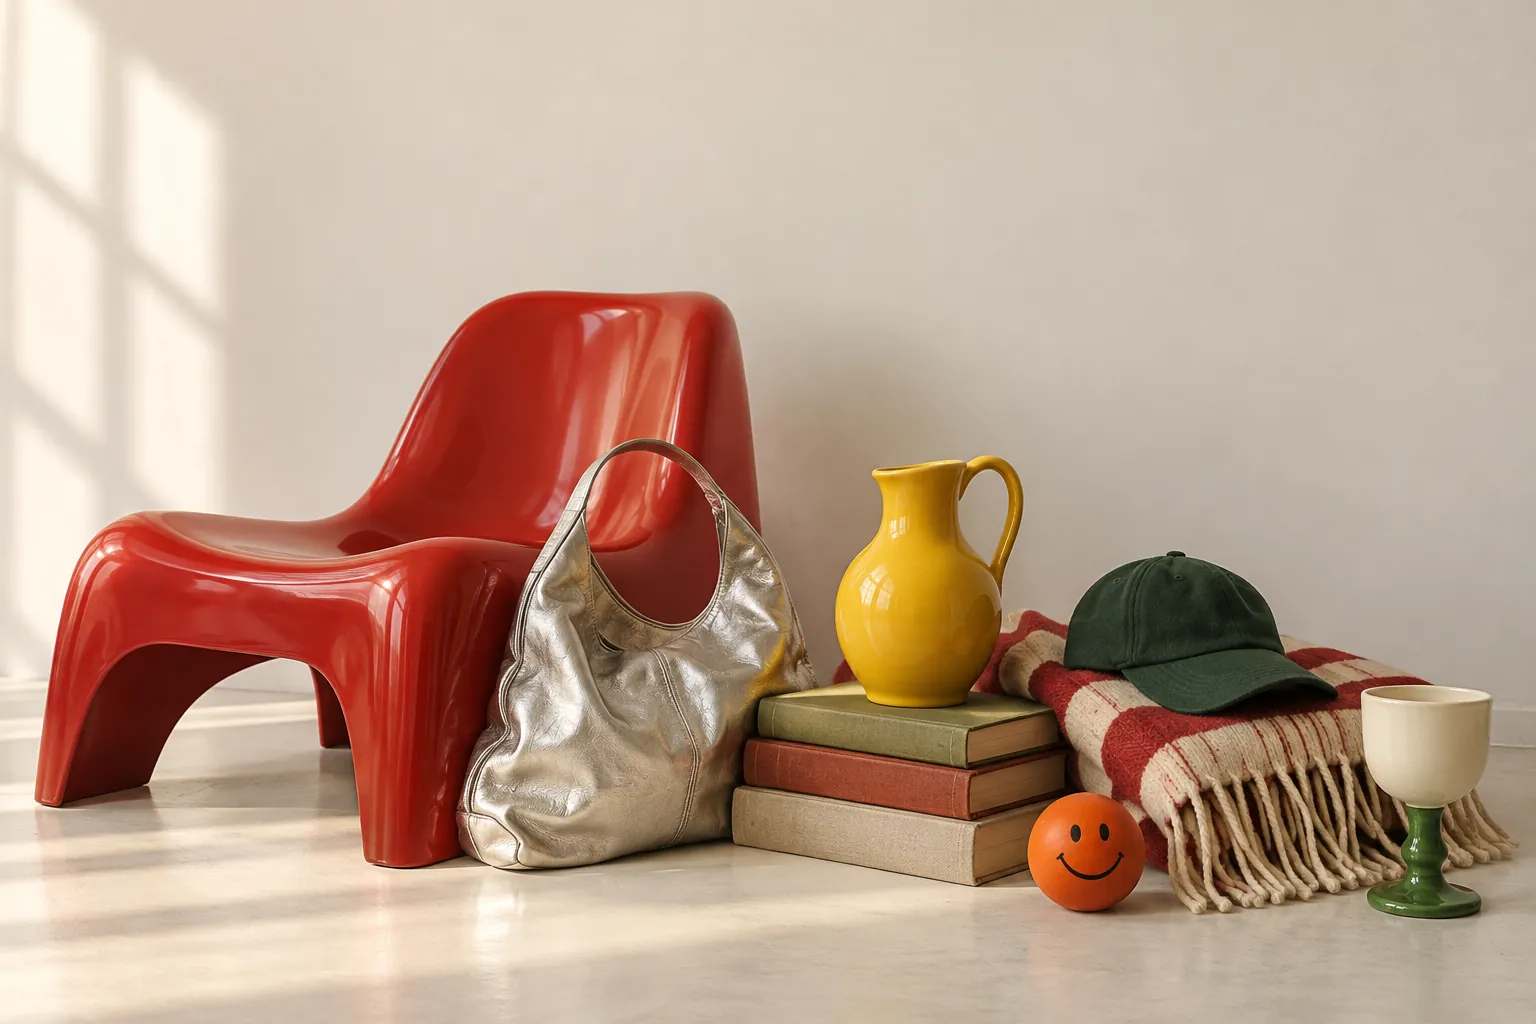
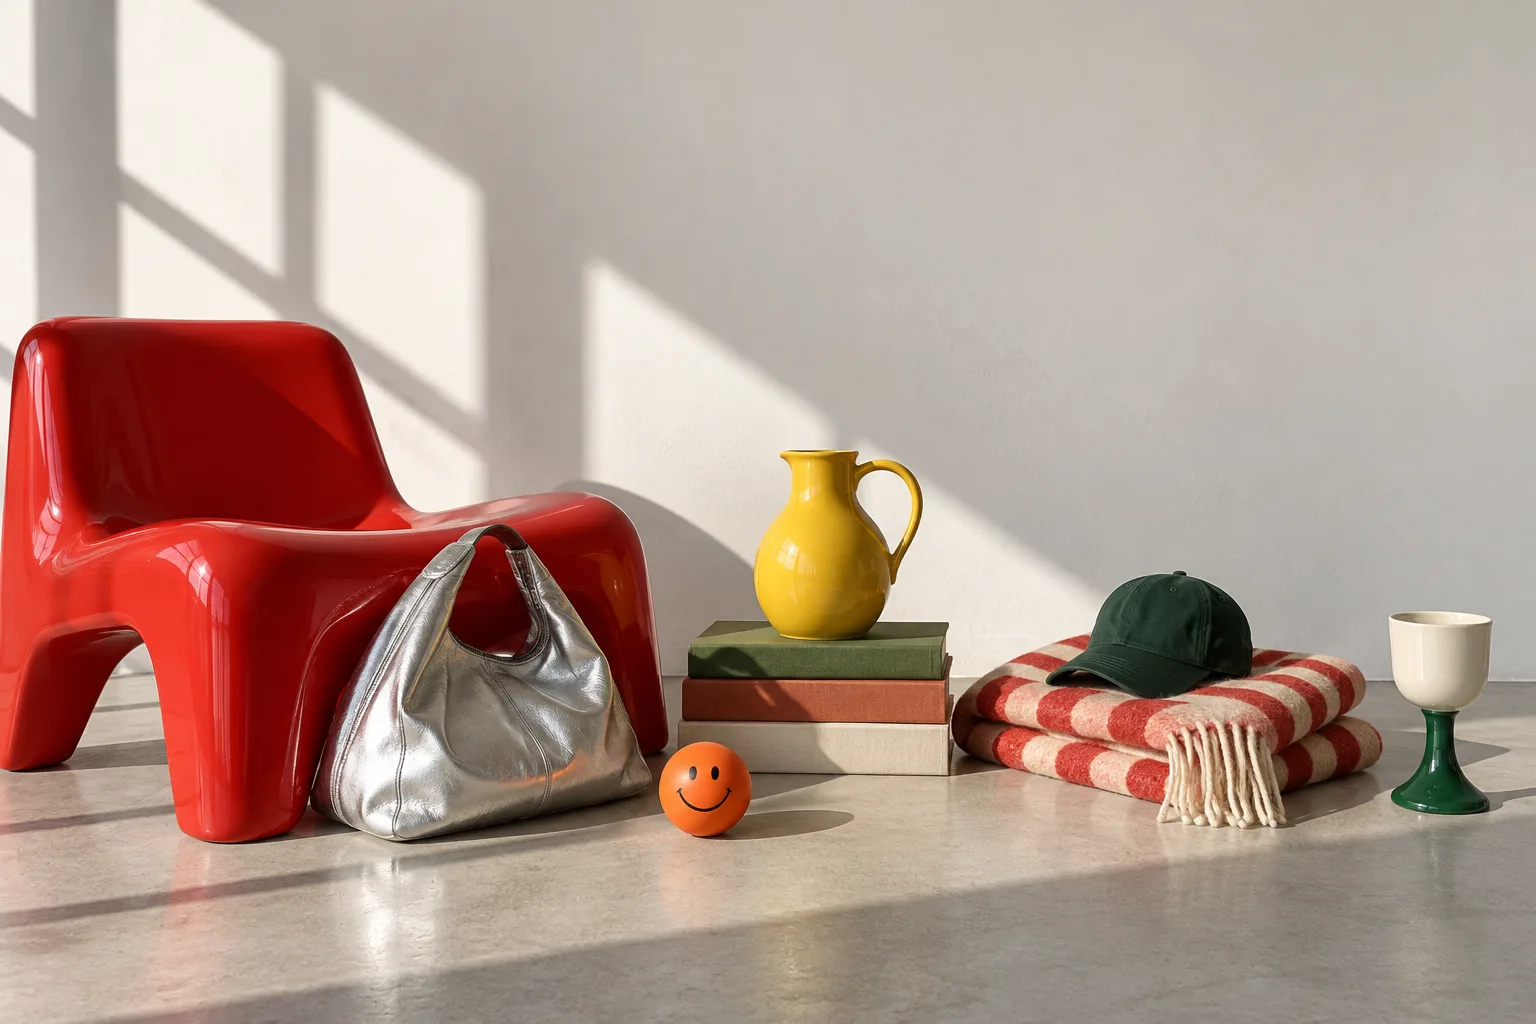
Add Objects case study; relight Slow Mornings and campaign photos
Studio site: new Objects case study with homepage and Works cards, and
optional text/outline colours for palette swatches.
Objects: hard-daylight versions of the edit and campaign photos, hotspots
and the mobile campaign blend adjusted to match.

diff --git a/case-study.js b/case-study.js
@@ -11,7 +11,9 @@
  * Section types:
  *   { type: "chapter", label?, title, body: [paragraphs], list?: [items], after?: [paragraphs] }
  *   { type: "text", body: [paragraphs] }     — continues a chapter's right column
- *   { type: "palette", swatches: [{ name, hex, label, bottom? }, ...] }  — colour swatches
+ *   { type: "palette", swatches: [{ name, hex, label, bottom?, text?, outline? }, ...] }  — colour swatches
+ *                                          (`text` colours the name on light swatches, `outline` adds a
+ *                                            hairline edge to a swatch close to the sheet colour)
  *   { type: "cards", items: [{ src, alt }, ...] }  — 2-column grid of 652 x 400 cards
  *   { type: "shop", label, products: [[file, name, price, [h%, left%, top%, w%]], ...] }
  *                                          — scrolling product strip; images in assets/work/monazeni-shop/
@@ -635,6 +637,151 @@
         { type: "statement", text: "Make every child feel seen." },
       ],
     },
+
+    objects: {
+      name: "Objects",
+      hero: {
+        src: "assets/work/objects-campaign.webp",
+        alt: "Objects campaign still life: a glossy red lounge chair, a silver hobo bag, a yellow pitcher on a stack of books, a striped blanket, a green cap and an orange smiley ball",
+        position: "50% 70%",
+      },
+      title: "Ordinary things deserve an uncommon home.",
+      tags: ["E-commerce", "Art direction", "Web"],
+      intro: [
+        "Objects is a concept for an independent lifestyle shop: sculptural lamps, glossy ceramics, glass, bags and small furniture, each chosen for a bit of character.",
+        "Shops like this are built on taste. Online, most of them end up on the same template as everyone else. We wanted to design a store that feels as considered as the things it sells, without losing the basics of shopping.",
+      ],
+      meta: {
+        Client: "Objects (concept)",
+        Year: "2026",
+        Sector: "Lifestyle e-commerce",
+        Scope: "Brand direction, Art direction, Website design, Development",
+      },
+      sections: [
+        {
+          type: "chapter",
+          label: "The Problem",
+          title: "Great objects, generic shops",
+          body: [
+            "Independent shops sell things with real personality: a lamp shaped like a mushroom, a kettle with a bird on the spout. On most templates, every one of them becomes a grey thumbnail in an identical grid.",
+            "The shop’s point of view, the reason to buy from them instead of a marketplace, gets lost. And shoppers get no sense of what an object is like to live with, which makes a premium price hard to justify.",
+          ],
+        },
+        { type: "statement", text: "A $185 lamp shouldn’t look like a $15 phone case." },
+        // Placeholder: homepage on a desktop mockup
+        { type: "media", variant: "full" },
+        {
+          type: "chapter",
+          label: "The Idea",
+          title: "Playful objects, disciplined layouts",
+          body: [
+            "The line became the brief: “Ordinary things. Uncommon character.” The products are everyday — cups, bags, lamps — but each one has a quirk.",
+            "So the site does two jobs at once. It lets the objects be loud, and keeps everything around them calm: a strict grid, quiet type for shopping, and generous space.",
+          ],
+        },
+        { type: "statement", text: "The objects get to be loud because everything around them stays calm." },
+        {
+          type: "chapter",
+          label: "The Visual System",
+          title: "The colour comes from the stock",
+          body: [
+            "A warm off-white base instead of clinical white, so the objects glow against it like they would on a gallery wall. The interface itself is black, off-white and one vermilion accent. The vermilion lamp, the cobalt vase and the yellow pitcher bring the rest.",
+            "Archivo, set condensed and heavy, gives the headlines a magazine-cover voice and lets products sit on the type. Instrument Sans keeps names, prices and details easy to scan, and IBM Plex Mono labels add a catalogue feel. A few small shapes — a flower, a smiley, an asterisk — add a wink without tipping into childish.",
+          ],
+        },
+        {
+          type: "palette",
+          swatches: [
+            { name: "Warm White", hex: "#FAF9F6", label: "#8C877F", text: "#121110" },
+            { name: "Ink", hex: "#121110", label: "#8C877F", outline: true },
+            { name: "Vermilion", hex: "#FF5A1F", label: "#121110" },
+            { name: "Cobalt", hex: "#1F47D6", label: "#FAF9F6", bottom: true },
+          ],
+        },
+        {
+          type: "chapter",
+          label: "Photography",
+          title: "The photography is the product",
+          body: [
+            "Anything you shop from is a studio cutout: the same light, angle and contact shadow on every object, so a lamp and a vase can be compared honestly and placed freely in layouts — like the lamp resting on the “t” of the hero headline.",
+            "Storytelling sections use real-life scenes instead, answering the question every shopper actually has: what will this look like at my place?",
+          ],
+        },
+        { type: "media", variant: "bleed", ratio: "1536 / 1024", image: { src: "assets/work/objects-edit-mornings.webp", alt: "The “Things for Slow Mornings” still life: a chrome kettle, a stem cup, a yellow pitcher, blood oranges and a cobalt glass vase on an oak table" } },
+        {
+          type: "text",
+          body: [
+            "The first round of lifestyle photography looked too polished — soft golden light, blurry backgrounds, the same warm grade on everything. It read as staged. We reshot the direction in hard daylight, with everything in focus and honest colour, closer to real interiors photography. On a page about real people, trust matters more than prettiness.",
+          ],
+        },
+        { type: "media", variant: "pair", ratio: "704 / 880", images: [
+            { src: "assets/work/objects-about-dog.webp", alt: "Biscuit the shop dog asleep on the red Pebble Chair in hard morning sunlight", position: "50% 55%" },
+            { src: "assets/work/objects-about-team.webp", alt: "The Objects team in their shop with the shop dog, in front of shelves of ceramics on a mint-green wall", position: "45% 50%" },
+          ] },
+        {
+          type: "chapter",
+          label: "The Shopping Experience",
+          title: "A store that tells stories, and still sells",
+          body: [
+            "Every editorial moment is also a way to shop, so the story and the store are never separate places.",
+          ],
+          list: [
+            "Hover a product to see it in a real room — two jobs from one card.",
+            "Colour swatches change the actual product image.",
+            "Quick add, and a bag that slides in without leaving the page.",
+            "A shoppable “Slow Mornings” edit with numbered hotspots.",
+            "Search, category tiles and a full shop page with filters for people who already know what they want.",
+          ],
+        },
+        // Day / night: hover on desktop, drag on mobile
+        { type: "media", variant: "pair", ratio: "704 / 880", images: [
+            { src: "assets/work/objects-story.webp", alt: "The brand-story still life by day: a vermilion dome lamp on a stack of books in soft daylight", position: "50% 70%" },
+            { src: "assets/work/objects-story-night.webp", alt: "The same still life at night, lit only by the dome lamp", position: "50% 70%" },
+          ] },
+        {
+          type: "text",
+          body: [
+            "One small moment shows a product’s real purpose. Hover the brand-story photo on desktop and the room falls into night with the lamp switched on; on a phone, a handle at the edge of the frame drags the night in.",
+          ],
+        },
+        // Placeholder: mobile screens
+        { type: "media", variant: "pair" },
+        { type: "gallery", count: 4 },
+        {
+          type: "chapter",
+          label: "Trade-offs",
+          title: "What we chose, and what it cost",
+          body: [
+            "Every decision that made the shop memorable had a price.",
+          ],
+          list: [
+            "Personality over weight: big type and large photography make it heavier than a template, so motion stays subtle and switches off for people who prefer less.",
+            "An art-directed hero over a swappable banner: the lamp on the headline only works for that line, so each new campaign needs recomposing.",
+            "Simulated colourways: one photo is recoloured for each option. Fast and consistent, but a real shop would eventually reshoot every colour.",
+            "Stories over density: the homepage pushes some products further down, balanced by the shop page, categories and search.",
+            "Mobile layouts designed separately, not shrunk: a stacked still life in the hero, a seamless campaign image, a drag slider instead of hover.",
+          ],
+        },
+        {
+          type: "chapter",
+          label: "The Outcome",
+          title: "A shop with a point of view",
+          body: [
+            "A complete, responsive store concept with a homepage, a shop of 24 products, an About page, search, product details, quick add and a working bag.",
+            "The system scales without redesign: when we added twelve new products, they dropped into the existing sections and nothing needed rethinking.",
+          ],
+        },
+        {
+          type: "stats",
+          items: [
+            ["24", "Products across four categories"],
+            ["3", "Pages: home, shop and about"],
+            ["0", "Layouts changed to add twelve new products"],
+          ],
+        },
+        { type: "statement", text: "Ordinary things.<br>Uncommon character." },
+      ],
+    },
   };
 
   // "Next project" follows the order of the cards on the homepage.
@@ -761,8 +908,9 @@
       case "palette": {
         var sw = s.swatches.map(function (c) {
           return (
-            '<div class="swatch' + (c.bottom ? " swatch--bottom" : "") + '" style="background:' + c.hex + '">' +
-            '<p class="swatch__name">' + c.name + "</p>" +
+            '<div class="swatch' + (c.bottom ? " swatch--bottom" : "") + '" style="background:' + c.hex +
+            (c.outline ? ";box-shadow:inset 0 0 0 1px rgba(255,255,255,.18)" : "") + '">' +
+            '<p class="swatch__name"' + (c.text ? ' style="color:' + c.text + '"' : "") + ">" + c.name + "</p>" +
             '<p class="swatch__hex" style="color:' + c.label + '">' + c.hex + "</p>" +
             "</div>"
           );

diff --git a/objects/index.html b/objects/index.html
@@ -185,11 +185,11 @@
       </div>
       <div class="edit__body">
         <figure class="edit__figure reveal" data-hotspots>
-          <img src="img/edit-mornings-sm.webp" srcset="img/edit-mornings-sm.webp 768w, img/edit-mornings.webp 1536w" sizes="(max-width:1024px) 92vw, 70vw" alt="Morning still life on an oak table: a chrome kettle with an orange bird whistle, a cream stem cup of coffee, a yellow pitcher, blood oranges and a cobalt glass vase holding a pink anthurium." loading="lazy" width="1536" height="1024">
-          <button class="hotspot" type="button" style="--x:18%;--y:47%" data-spot="songbird-kettle" aria-expanded="false" aria-label="1: Songbird Kettle"><span class="hotspot__dot" aria-hidden="true">1</span></button>
-          <button class="hotspot" type="button" style="--x:44.5%;--y:57%" data-spot="stem-cup" aria-expanded="false" aria-label="2: Stem Cup"><span class="hotspot__dot" aria-hidden="true">2</span></button>
-          <button class="hotspot" type="button" style="--x:63.5%;--y:46%" data-spot="sunday-pitcher" aria-expanded="false" aria-label="3: Sunday Pitcher"><span class="hotspot__dot" aria-hidden="true">3</span></button>
-          <button class="hotspot" type="button" style="--x:91.5%;--y:50%" data-spot="ripple-vase" aria-expanded="false" aria-label="4: Ripple Glass Vase"><span class="hotspot__dot" aria-hidden="true">4</span></button>
+          <img src="img/edit-mornings-sm.webp" srcset="img/edit-mornings-sm.webp 768w, img/edit-mornings.webp 1536w" sizes="(max-width:1024px) 92vw, 70vw" alt="Morning still life on an oak table in bright sun: a chrome kettle with an orange bird whistle, a cream stem cup of coffee, a yellow pitcher, blood oranges and a cobalt glass vase holding a pink anthurium." loading="lazy" width="1536" height="1024">
+          <button class="hotspot" type="button" style="--x:17%;--y:56%" data-spot="songbird-kettle" aria-expanded="false" aria-label="1: Songbird Kettle"><span class="hotspot__dot" aria-hidden="true">1</span></button>
+          <button class="hotspot" type="button" style="--x:44%;--y:58%" data-spot="stem-cup" aria-expanded="false" aria-label="2: Stem Cup"><span class="hotspot__dot" aria-hidden="true">2</span></button>
+          <button class="hotspot" type="button" style="--x:62%;--y:52%" data-spot="sunday-pitcher" aria-expanded="false" aria-label="3: Sunday Pitcher"><span class="hotspot__dot" aria-hidden="true">3</span></button>
+          <button class="hotspot" type="button" style="--x:93%;--y:55%" data-spot="ripple-vase" aria-expanded="false" aria-label="4: Ripple Glass Vase"><span class="hotspot__dot" aria-hidden="true">4</span></button>
         </figure>
         <div class="edit__list">
           <p class="label muted" style="margin-bottom:12px">In this edit</p>

diff --git a/index.html b/index.html
@@ -110,6 +110,13 @@
           <ul class="tags"><li class="tag">Web</li><li class="tag">Illustration</li></ul>
         </div>
       </a>
+      <a class="work-card" href="#work/objects">
+        <div class="work-card__media work-card__media--short"><img src="assets/work/objects-campaign.webp" alt="Objects campaign still life with a red lounge chair, a silver bag and a yellow pitcher" loading="lazy"></div>
+        <div class="work-card__meta">
+          <h3 class="work-card__title">Ordinary things deserve an uncommon home</h3>
+          <ul class="tags"><li class="tag">E-commerce</li><li class="tag">Art direction</li></ul>
+        </div>
+      </a>
     </div>
   </section>
 
@@ -214,6 +221,6 @@
   </div>
 
   <script src="menu.js?v=4" defer></script>
-  <script src="case-study.js?v=59" defer></script>
+  <script src="case-study.js?v=61" defer></script>
 </body>
 </html>

diff --git a/objects/css/objects.css b/objects/css/objects.css
@@ -585,9 +585,9 @@ ul, ol { list-style: none; padding: 0; }
 @media (max-width: 760px) {
   /* copy sits above the photo here, so its background is sampled from the
      photo's top edge (left→right falloff) and the photo fades into it */
-  .campaign { height: auto; display: flex; flex-direction: column; background: linear-gradient(90deg, #DBCDBE, #C9BEB0); }
+  .campaign { height: auto; display: flex; flex-direction: column; background: linear-gradient(90deg, #B3AAA1, #BEB6AD); }
   .campaign img {
-    position: relative; height: auto; aspect-ratio: 4 / 5; object-position: 62% center; order: 2;
+    position: relative; height: auto; aspect-ratio: 4 / 5; object-position: 50% center; order: 2;
     -webkit-mask-image: linear-gradient(to bottom, transparent 0, #000 22%);
             mask-image: linear-gradient(to bottom, transparent 0, #000 22%);
     margin-top: -12%;

diff --git a/works.html b/works.html
@@ -96,6 +96,13 @@
           <ul class="tags"><li class="tag">Web</li><li class="tag">Illustration</li></ul>
         </div>
       </a>
+      <a class="work-card" href="#work/objects">
+        <div class="work-card__media work-card__media--short"><img src="assets/work/objects-campaign.webp" alt="Objects campaign still life with a red lounge chair, a silver bag and a yellow pitcher" loading="lazy"></div>
+        <div class="work-card__meta">
+          <h3 class="work-card__title">Ordinary things deserve an uncommon home</h3>
+          <ul class="tags"><li class="tag">E-commerce</li><li class="tag">Art direction</li></ul>
+        </div>
+      </a>
     </div>
   </main>
 
@@ -136,6 +143,6 @@
   </div>
 
   <script src="menu.js?v=4" defer></script>
-  <script src="case-study.js?v=59" defer></script>
+  <script src="case-study.js?v=61" defer></script>
 </body>
 </html>
